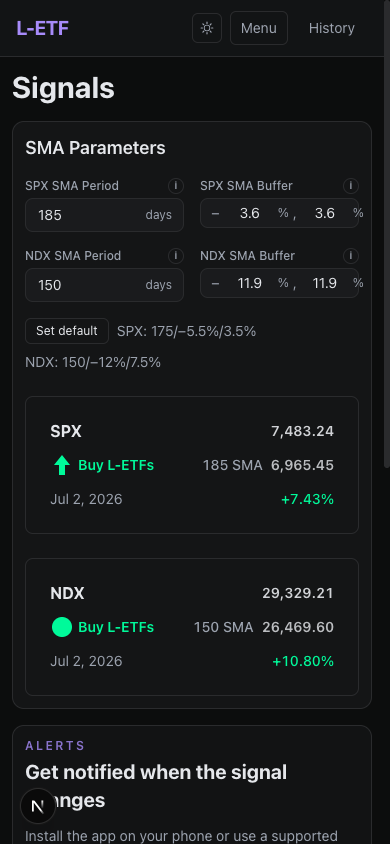
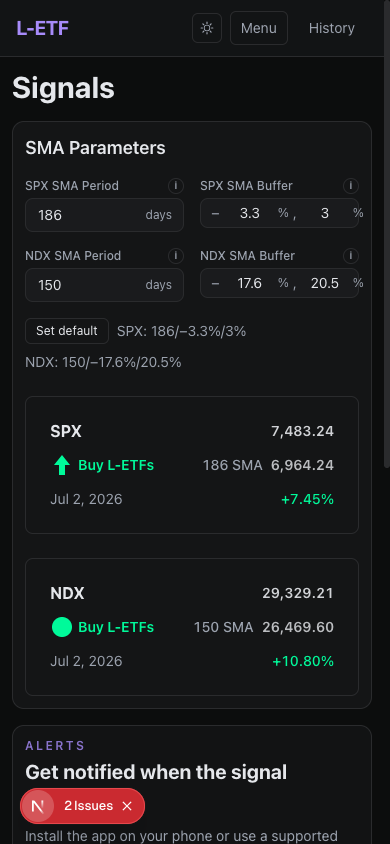
fix(calibrate-sma): use the diversified risk-off asset for scoring
The calibration was scoring against SGOV, but SMA period/buffer combos
are actually evaluated against BRK.B+GLDM+VGSH — a different risk-off
asset changes the return/drawdown profile of every "sell" period
enough to change which combo scores best. Also tightens the period
sweep to step=1 (was 5, which skipped 186 entirely) and the fine
buffer step to 0.1 (was 0.5, which couldn't represent 3.3%) so the
search can land on precise real-world combos instead of only grid-
aligned approximations. Simplified back to a single two-phase pass
(period sweep at a sane fixed buffer, then coarse+fine buffer search
at that period) rather than multi-start coordinate ascent, since it's
both cheaper and sufficient once the risk-off asset is correct.

Re-ran end-to-end: SPX now calibrates to 186d/-3.3%/3%, NDX to
150d/-17.6%/20.5% — matching known-good values from the UI exactly.

diff --git a/scripts/calibrate-sma.ts b/scripts/calibrate-sma.ts
@@ -4,9 +4,11 @@
  * compare-threshold-strategies tools against real price data, picking the
  * combo with the highest score (src/lib/simulation/score.ts).
  *
- * Runs alternating coordinate ascent (period -> buffer -> period -> ...) per
- * index, capped at a few rounds, since buffer choice shifts which period
- * scores best and vice versa.
+ * Two-phase, single pass per index (cheap, matches how the tools are used
+ * manually): sweep period at a known-good sensible buffer to find the best
+ * period, then run the asymmetric coarse+fine buffer grid search at that
+ * period (same coarse/fine steps as the compare-threshold-strategies tool)
+ * to find the best buffer.
  *
  * Usage:
  *   npx tsx scripts/calibrate-sma.ts
@@ -30,7 +32,7 @@ import {
   type MonthlyCpiPoint,
 } from "./lib/sweep-data";
 import { CONSTANT_SP500_SHORTCUT_DATE } from "../src/lib/constants";
-import { DEFAULT_RISK_OFF_ASSET, getDefaultSmaBuffer, getDefaultWindowLength } from "../src/lib/simulation/defaults";
+import { getDefaultWindowLength } from "../src/lib/simulation/defaults";
 import { DEFAULT_COMBO_PRESET, createPresetEtfConfig, getComboSubPresets } from "../src/lib/simulation/presets";
 import { buildRollingWindows, summarizeSmaRow, type RollingWindow } from "../src/lib/simulation/rolling";
 import { getBestSweepRow } from "../src/lib/sweep";
@@ -50,15 +52,30 @@ const OUTPUT_PATH = join(process.cwd(), "src", "lib", "tool-snapshots", "sma-cal
 
 const MIN_PERIOD = 20;
 const MAX_PERIOD = 280;
-const PERIOD_STEP = 5;
+const PERIOD_STEP = 1;
 
+// Same coarse grid params as compare-threshold-strategies/page.tsx's defaults.
+// Fine step is tighter than that page's 0.5 default so the fine pass can land
+// on precise combos (e.g. 3.3%) instead of only 0.5%-multiples.
 const MIN_BUFFER = 0;
 const MAX_BUFFER = 24;
 const COARSE_STEP = 2;
-const FINE_STEP = 0.5;
+const FINE_STEP = 0.1;
 const FINE_HALF_WIDTH = 1.5;
 
-const MAX_ROUNDS = 3;
+/** Sensible symmetric buffer to hold fixed while sweeping for the best period. */
+const SANE_STARTING_BUFFER: Record<IndexKey, number> = {
+  sp500: 3.3,
+  nasdaq100: 11.9,
+};
+
+/**
+ * Diversified risk-off asset used for calibration (matches how these SMA
+ * parameters are actually evaluated/backtested — not SGOV). Risk-off asset
+ * choice materially changes which buffer/period scores best, since it
+ * changes the return/drawdown profile of every "sell" period.
+ */
+const CALIBRATION_RISK_OFF_ASSET = "BRK.B+GLDM+VGSH" as const;
 
 type SweepContext = {
   prices: PricePoint[];
@@ -85,7 +102,7 @@ function runPeriodSweep(
         smaPeriod: p,
         smaUpperBuffer: upper,
         smaLowerBuffer: lower,
-        riskOffAsset: DEFAULT_RISK_OFF_ASSET,
+        riskOffAsset: CALIBRATION_RISK_OFF_ASSET,
       })
     );
   }
@@ -120,7 +137,7 @@ function runBufferPoints(
       smaPeriod: period,
       smaUpperBuffer: upper,
       smaLowerBuffer: lower,
-      riskOffAsset: DEFAULT_RISK_OFF_ASSET,
+      riskOffAsset: CALIBRATION_RISK_OFF_ASSET,
     })
   );
   const results = runPrecomputedSweep({
@@ -191,7 +208,7 @@ async function calibrateIndex(
     fetchInflationData(startDate, endDate),
   ]);
   const riskOffSeries = await loadRiskOffValuesForReference(
-    getUniquePrimitiveRiskOffAssets([DEFAULT_RISK_OFF_ASSET]),
+    getUniquePrimitiveRiskOffAssets([CALIBRATION_RISK_OFF_ASSET]),
     prices,
     expandedStartDate,
     endDate
@@ -216,34 +233,20 @@ async function calibrateIndex(
     windowLength,
   };
 
-  let upper = getDefaultSmaBuffer(indexKey);
-  let lower = getDefaultSmaBuffer(indexKey);
-  let period = MIN_PERIOD;
-  let bestBufferRow: AsymmetricSweepRow | null = null;
-  let previousPeriod: number | null = null;
+  const startBuffer = SANE_STARTING_BUFFER[indexKey];
+  const bestPeriodRow = runPeriodSweep(ctx, preset, startBuffer, startBuffer);
+  const period = bestPeriodRow.parameterValue;
+  console.log(`  [${indexKey}] best period at -${startBuffer}%/${startBuffer}% buffer = ${period}d`);
 
-  for (let round = 1; round <= MAX_ROUNDS; round++) {
-    const bestPeriodRow = runPeriodSweep(ctx, preset, upper, lower);
-    period = bestPeriodRow.parameterValue;
-    console.log(`  [${indexKey}] round ${round}: best period = ${period}d at buffer -${lower}%/${upper}%`);
-
-    bestBufferRow = runBufferGridSearch(ctx, preset, period);
-    upper = bestBufferRow.upperBuffer;
-    lower = bestBufferRow.lowerBuffer;
-    const score = scoreRow(bestBufferRow, inflPct, windowLength);
-    console.log(`  [${indexKey}] round ${round}: best buffer = -${lower}%/${upper}% (score ${score.toFixed(2)})`);
-
-    if (previousPeriod !== null && previousPeriod === period) break;
-    previousPeriod = period;
-  }
-
-  if (!bestBufferRow) throw new Error(`Calibration produced no result for ${indexKey}`);
+  const bestBufferRow = runBufferGridSearch(ctx, preset, period);
+  const score = scoreRow(bestBufferRow, inflPct, windowLength);
+  console.log(`  [${indexKey}] best buffer at ${period}d = -${bestBufferRow.lowerBuffer}%/${bestBufferRow.upperBuffer}% (score ${score.toFixed(2)})`);
 
   return {
     smaPeriod: period,
-    smaUpperBuffer: upper,
-    smaLowerBuffer: lower,
-    score: scoreRow(bestBufferRow, inflPct, windowLength),
+    smaUpperBuffer: bestBufferRow.upperBuffer,
+    smaLowerBuffer: bestBufferRow.lowerBuffer,
+    score,
     avgReturn: bestBufferRow.avgReturn,
     worstReturn: bestBufferRow.worstReturn,
     avgMaxDrawdown: bestBufferRow.avgMaxDrawdown,
